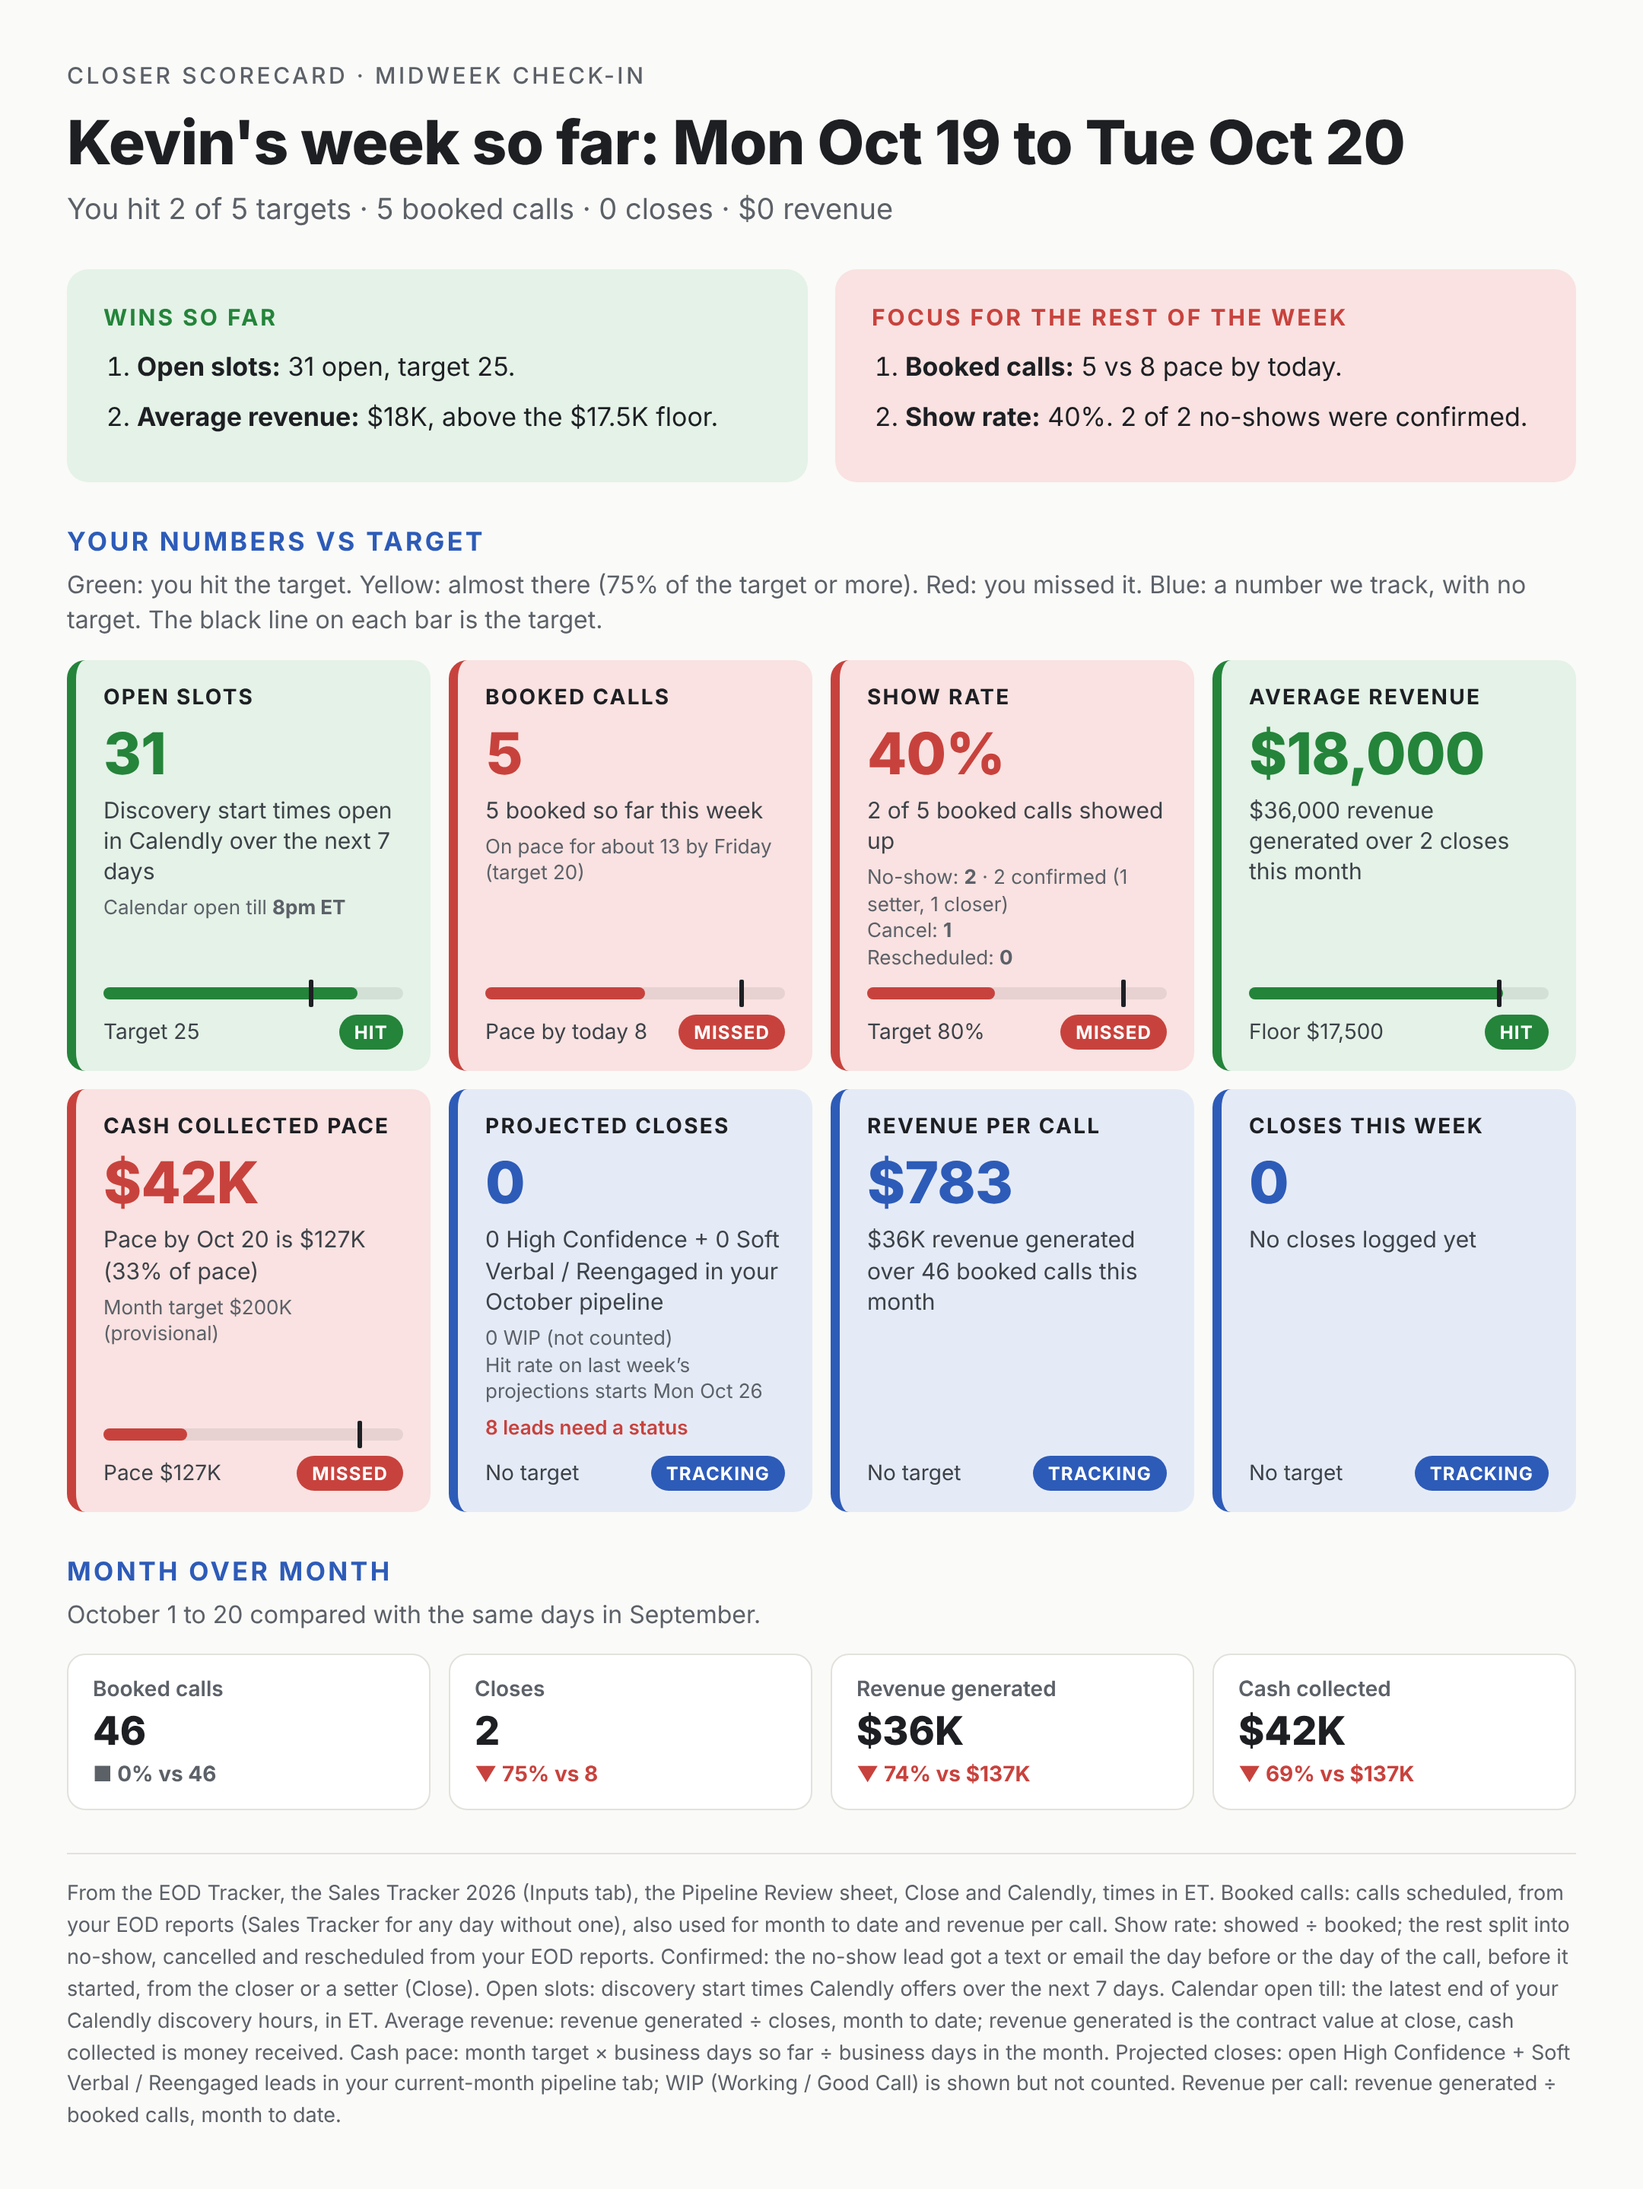
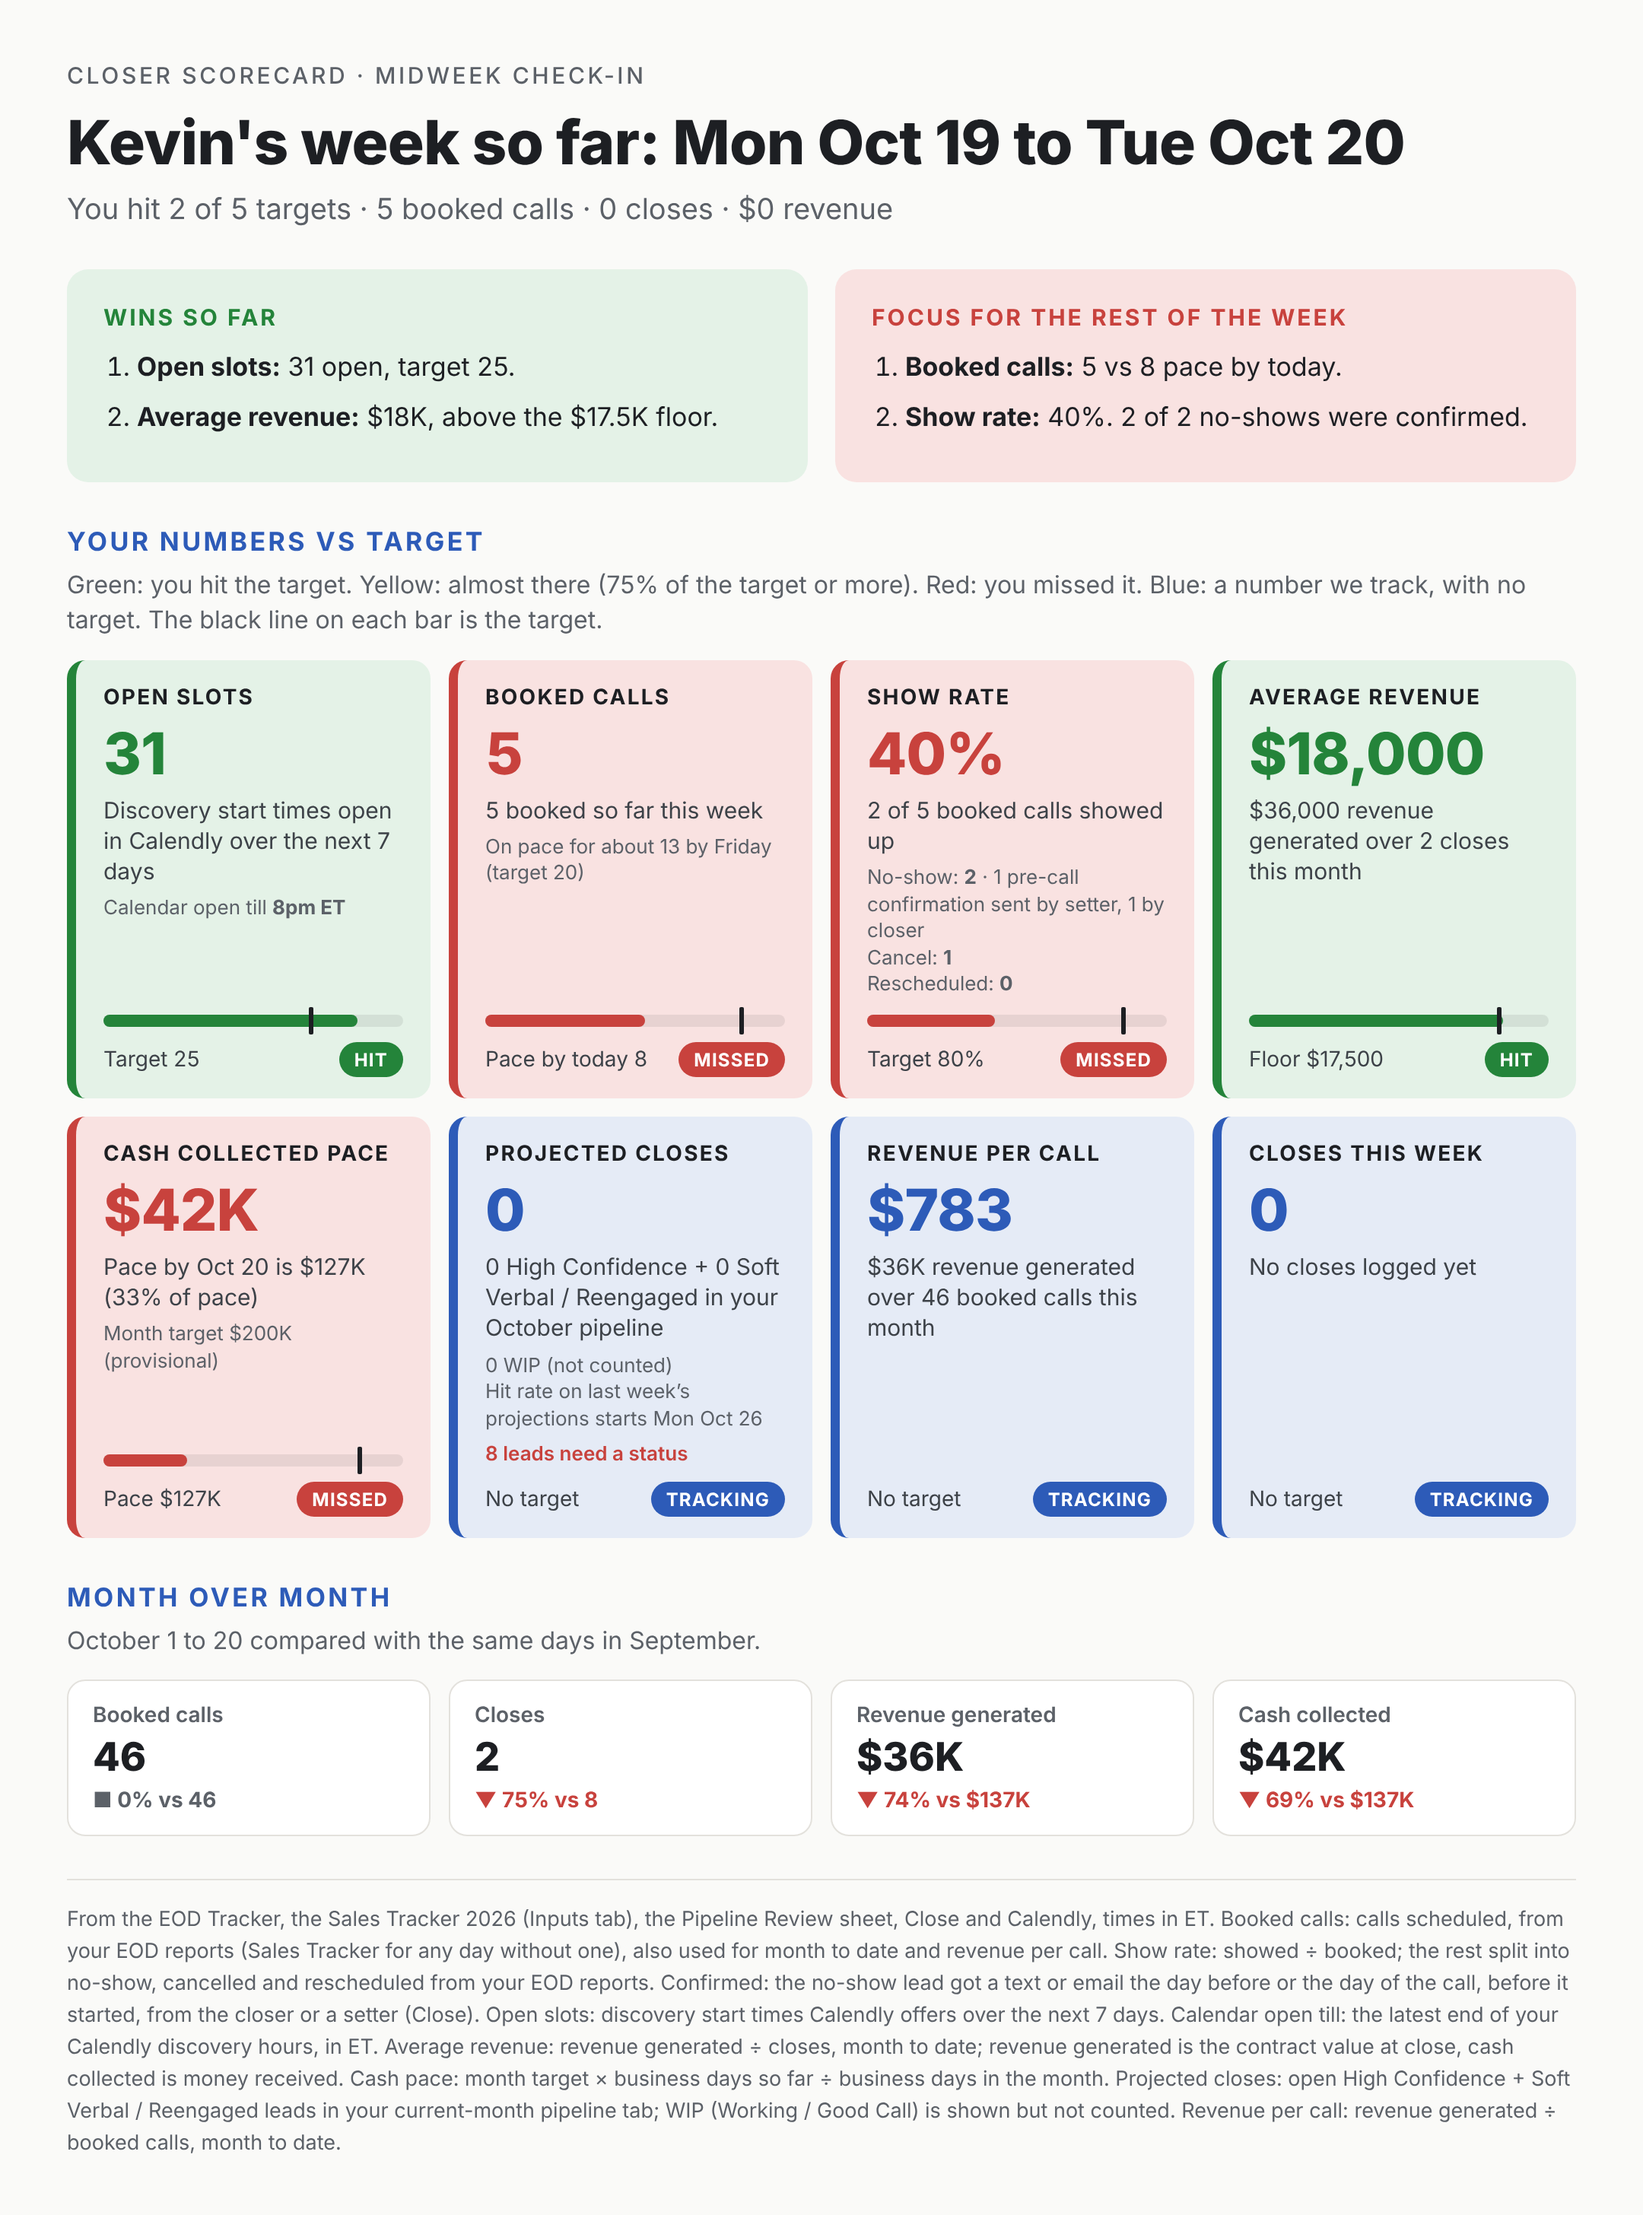
Show-rate tile: word no-show confirmations as pre-call confirmations sent by closer/setter
Claude-Session: https://claude.ai/code/session_011pbn4nCNJuuvTdiMbwfsux

diff --git a/out/monday-Kevin.html b/out/monday-Kevin.html
@@ -78,7 +78,7 @@ tr.total td{background:#f1efea;font-weight:800}
   <div class="foot"><div class="bar"><i style="width:63.74999999999999%"></i><b style="left:85%"></b></div><div class="row"><span>Target 20</span><span class="chip">ALMOST</span></div></div>
 </div><div class="tile almost">
   <div class="l">Show rate</div><div class="v">67%</div>
-  <div class="s">10 of 15 booked calls showed up</div><div class="small">No-show: <b>3</b> · 3 confirmed (2 setter, 1 closer)<br>Cancel: <b>2</b><br>Rescheduled: <b>0</b></div>
+  <div class="s">10 of 15 booked calls showed up</div><div class="small">No-show: <b>3</b> · 2 pre-call confirmation sent by setter, 1 by closer<br>Cancel: <b>2</b><br>Rescheduled: <b>0</b></div>
   <div class="foot"><div class="bar"><i style="width:70.83333333333333%"></i><b style="left:85%"></b></div><div class="row"><span>Target 80%</span><span class="chip">ALMOST</span></div></div>
 </div><div class="tile hit">
   <div class="l">Average revenue</div><div class="v">$18,000</div>

diff --git a/out/monday-Nick.html b/out/monday-Nick.html
@@ -78,7 +78,7 @@ tr.total td{background:#f1efea;font-weight:800}
   <div class="foot"><div class="bar"><i style="width:68%"></i><b style="left:85%"></b></div><div class="row"><span>Target 20</span><span class="chip">ALMOST</span></div></div>
 </div><div class="tile missed">
   <div class="l">Show rate</div><div class="v">56%</div>
-  <div class="s">9 of 16 booked calls showed up</div><div class="small">No-show: <b>7</b> · 6 confirmed (1 setter, 5 closer)<br>Cancel: <b>0</b><br>Rescheduled: <b>0</b></div>
+  <div class="s">9 of 16 booked calls showed up</div><div class="small">No-show: <b>7</b> · 1 pre-call confirmation sent by setter, 5 by closer<br>Cancel: <b>0</b><br>Rescheduled: <b>0</b></div>
   <div class="foot"><div class="bar"><i style="width:59.765624999999986%"></i><b style="left:85%"></b></div><div class="row"><span>Target 80%</span><span class="chip">MISSED</span></div></div>
 </div><div class="tile missed">
   <div class="l">Average revenue</div><div class="v">$17,250</div>

diff --git a/out/monday-Adam.html b/out/monday-Adam.html
@@ -78,7 +78,7 @@ tr.total td{background:#f1efea;font-weight:800}
   <div class="foot"><div class="bar"><i style="width:25.5%"></i><b style="left:85%"></b></div><div class="row"><span>Target 20</span><span class="chip">MISSED</span></div></div>
 </div><div class="tile almost">
   <div class="l">Show rate</div><div class="v">67%</div>
-  <div class="s">4 of 6 booked calls showed up</div><div class="small">No-show: <b>2</b> · 2 confirmed (1 setter, 1 closer)<br>Cancel: <b>0</b><br>Rescheduled: <b>0</b></div>
+  <div class="s">4 of 6 booked calls showed up</div><div class="small">No-show: <b>2</b> · 1 pre-call confirmation sent by setter, 1 by closer<br>Cancel: <b>0</b><br>Rescheduled: <b>0</b></div>
   <div class="foot"><div class="bar"><i style="width:70.83333333333333%"></i><b style="left:85%"></b></div><div class="row"><span>Target 80%</span><span class="chip">ALMOST</span></div></div>
 </div><div class="tile missed">
   <div class="l">Average revenue</div><div class="v">$17,000</div>

diff --git a/out/monday-VeJohn.html b/out/monday-VeJohn.html
@@ -78,7 +78,7 @@ tr.total td{background:#f1efea;font-weight:800}
   <div class="foot"><div class="bar"><i style="width:72.24999999999999%"></i><b style="left:85%"></b></div><div class="row"><span>Target 20</span><span class="chip">ALMOST</span></div></div>
 </div><div class="tile almost">
   <div class="l">Show rate</div><div class="v">76%</div>
-  <div class="s">13 of 17 booked calls showed up</div><div class="small">No-show: <b>2</b> · 2 confirmed (2 closer)<br>Cancel: <b>2</b><br>Rescheduled: <b>0</b></div>
+  <div class="s">13 of 17 booked calls showed up</div><div class="small">No-show: <b>2</b> · 2 pre-call confirmation sent by closer<br>Cancel: <b>2</b><br>Rescheduled: <b>0</b></div>
   <div class="foot"><div class="bar"><i style="width:81.24999999999999%"></i><b style="left:85%"></b></div><div class="row"><span>Target 80%</span><span class="chip">ALMOST</span></div></div>
 </div><div class="tile missed">
   <div class="l">Average revenue</div><div class="v">$16,200</div>

diff --git a/out/wednesday-Kevin.html b/out/wednesday-Kevin.html
@@ -78,7 +78,7 @@ tr.total td{background:#f1efea;font-weight:800}
   <div class="foot"><div class="bar"><i style="width:53.125%"></i><b style="left:85%"></b></div><div class="row"><span>Pace by today 8</span><span class="chip">MISSED</span></div></div>
 </div><div class="tile missed">
   <div class="l">Show rate</div><div class="v">40%</div>
-  <div class="s">2 of 5 booked calls showed up</div><div class="small">No-show: <b>2</b> · 2 confirmed (1 setter, 1 closer)<br>Cancel: <b>1</b><br>Rescheduled: <b>0</b></div>
+  <div class="s">2 of 5 booked calls showed up</div><div class="small">No-show: <b>2</b> · 1 pre-call confirmation sent by setter, 1 by closer<br>Cancel: <b>1</b><br>Rescheduled: <b>0</b></div>
   <div class="foot"><div class="bar"><i style="width:42.5%"></i><b style="left:85%"></b></div><div class="row"><span>Target 80%</span><span class="chip">MISSED</span></div></div>
 </div><div class="tile hit">
   <div class="l">Average revenue</div><div class="v">$18,000</div>

diff --git a/out/monday-Owen.html b/out/monday-Owen.html
@@ -78,7 +78,7 @@ tr.total td{background:#f1efea;font-weight:800}
   <div class="foot"><div class="bar"><i style="width:85%"></i><b style="left:73.91304347826086%"></b></div><div class="row"><span>Target 20</span><span class="chip">HIT</span></div></div>
 </div><div class="tile almost">
   <div class="l">Show rate</div><div class="v">78%</div>
-  <div class="s">18 of 23 booked calls showed up</div><div class="small">No-show: <b>3</b> · 1 confirmed (1 closer)<br>Cancel: <b>1</b><br>Rescheduled: <b>1</b></div>
+  <div class="s">18 of 23 booked calls showed up</div><div class="small">No-show: <b>3</b> · 1 pre-call confirmation sent by closer<br>Cancel: <b>1</b><br>Rescheduled: <b>1</b></div>
   <div class="foot"><div class="bar"><i style="width:83.15217391304347%"></i><b style="left:85%"></b></div><div class="row"><span>Target 80%</span><span class="chip">ALMOST</span></div></div>
 </div><div class="tile hit">
   <div class="l">Average revenue</div><div class="v">$19,400</div>

diff --git a/out/wednesday-Solomon.html b/out/wednesday-Solomon.html
@@ -78,7 +78,7 @@ tr.total td{background:#f1efea;font-weight:800}
   <div class="foot"><div class="bar"><i style="width:42.5%"></i><b style="left:85%"></b></div><div class="row"><span>Pace by today 8</span><span class="chip">MISSED</span></div></div>
 </div><div class="tile almost">
   <div class="l">Show rate</div><div class="v">75%</div>
-  <div class="s">3 of 4 booked calls showed up</div><div class="small">No-show: <b>1</b> · 1 confirmed (1 closer)<br>Cancel: <b>0</b><br>Rescheduled: <b>0</b></div>
+  <div class="s">3 of 4 booked calls showed up</div><div class="small">No-show: <b>1</b> · 1 pre-call confirmation sent by closer<br>Cancel: <b>0</b><br>Rescheduled: <b>0</b></div>
   <div class="foot"><div class="bar"><i style="width:79.68749999999999%"></i><b style="left:85%"></b></div><div class="row"><span>Target 80%</span><span class="chip">ALMOST</span></div></div>
 </div><div class="tile hit">
   <div class="l">Average revenue</div><div class="v">$18,667</div>

diff --git a/out/monday-Harry.html b/out/monday-Harry.html
@@ -78,7 +78,7 @@ tr.total td{background:#f1efea;font-weight:800}
   <div class="foot"><div class="bar"><i style="width:59.5%"></i><b style="left:85%"></b></div><div class="row"><span>Target 20</span><span class="chip">MISSED</span></div></div>
 </div><div class="tile almost">
   <div class="l">Show rate</div><div class="v">71%</div>
-  <div class="s">10 of 14 booked calls showed up</div><div class="small">No-show: <b>2</b> · 1 confirmed (1 closer)<br>Cancel: <b>2</b><br>Rescheduled: <b>0</b></div>
+  <div class="s">10 of 14 booked calls showed up</div><div class="small">No-show: <b>2</b> · 1 pre-call confirmation sent by closer<br>Cancel: <b>2</b><br>Rescheduled: <b>0</b></div>
   <div class="foot"><div class="bar"><i style="width:75.89285714285714%"></i><b style="left:85%"></b></div><div class="row"><span>Target 80%</span><span class="chip">ALMOST</span></div></div>
 </div><div class="tile hit">
   <div class="l">Average revenue</div><div class="v">$19,500</div>

diff --git a/out/monday-Solomon.html b/out/monday-Solomon.html
@@ -78,7 +78,7 @@ tr.total td{background:#f1efea;font-weight:800}
   <div class="foot"><div class="bar"><i style="width:51%"></i><b style="left:85%"></b></div><div class="row"><span>Target 20</span><span class="chip">MISSED</span></div></div>
 </div><div class="tile almost">
   <div class="l">Show rate</div><div class="v">67%</div>
-  <div class="s">8 of 12 booked calls showed up</div><div class="small">No-show: <b>4</b> · 3 confirmed (3 closer)<br>Cancel: <b>0</b><br>Rescheduled: <b>0</b></div>
+  <div class="s">8 of 12 booked calls showed up</div><div class="small">No-show: <b>4</b> · 3 pre-call confirmation sent by closer<br>Cancel: <b>0</b><br>Rescheduled: <b>0</b></div>
   <div class="foot"><div class="bar"><i style="width:70.83333333333333%"></i><b style="left:85%"></b></div><div class="row"><span>Target 80%</span><span class="chip">ALMOST</span></div></div>
 </div><div class="tile hit">
   <div class="l">Average revenue</div><div class="v">$18,667</div>

diff --git a/out/monday-JZ.html b/out/monday-JZ.html
@@ -78,7 +78,7 @@ tr.total td{background:#f1efea;font-weight:800}
   <div class="foot"><div class="bar"><i style="width:34%"></i><b style="left:85%"></b></div><div class="row"><span>Target 20</span><span class="chip">MISSED</span></div></div>
 </div><div class="tile almost">
   <div class="l">Show rate</div><div class="v">75%</div>
-  <div class="s">6 of 8 booked calls showed up</div><div class="small">No-show: <b>1</b> · 1 confirmed (1 closer)<br>Cancel: <b>1</b><br>Rescheduled: <b>0</b></div>
+  <div class="s">6 of 8 booked calls showed up</div><div class="small">No-show: <b>1</b> · 1 pre-call confirmation sent by closer<br>Cancel: <b>1</b><br>Rescheduled: <b>0</b></div>
   <div class="foot"><div class="bar"><i style="width:79.68749999999999%"></i><b style="left:85%"></b></div><div class="row"><span>Target 80%</span><span class="chip">ALMOST</span></div></div>
 </div><div class="tile hit">
   <div class="l">Average revenue</div><div class="v">$18,750</div>

diff --git a/out/wednesday-Nick.html b/out/wednesday-Nick.html
@@ -78,7 +78,7 @@ tr.total td{background:#f1efea;font-weight:800}
   <div class="foot"><div class="bar"><i style="width:42.5%"></i><b style="left:85%"></b></div><div class="row"><span>Pace by today 8</span><span class="chip">MISSED</span></div></div>
 </div><div class="tile missed">
   <div class="l">Show rate</div><div class="v">50%</div>
-  <div class="s">2 of 4 booked calls showed up</div><div class="small">No-show: <b>1</b> · 1 confirmed (1 closer)<br>Cancel: <b>1</b><br>Rescheduled: <b>0</b></div>
+  <div class="s">2 of 4 booked calls showed up</div><div class="small">No-show: <b>1</b> · 1 pre-call confirmation sent by closer<br>Cancel: <b>1</b><br>Rescheduled: <b>0</b></div>
   <div class="foot"><div class="bar"><i style="width:53.125%"></i><b style="left:85%"></b></div><div class="row"><span>Target 80%</span><span class="chip">MISSED</span></div></div>
 </div><div class="tile missed">
   <div class="l">Average revenue</div><div class="v">$17,250</div>

diff --git a/out/monday-Daniel.html b/out/monday-Daniel.html
@@ -78,7 +78,7 @@ tr.total td{background:#f1efea;font-weight:800}
   <div class="foot"><div class="bar"><i style="width:34%"></i><b style="left:85%"></b></div><div class="row"><span>Target 20</span><span class="chip">MISSED</span></div></div>
 </div><div class="tile almost">
   <div class="l">Show rate</div><div class="v">63%</div>
-  <div class="s">5 of 8 booked calls showed up</div><div class="small">No-show: <b>2</b> · 1 confirmed (1 closer)<br>Cancel: <b>0</b><br>Rescheduled: <b>1</b></div>
+  <div class="s">5 of 8 booked calls showed up</div><div class="small">No-show: <b>2</b> · 1 pre-call confirmation sent by closer<br>Cancel: <b>0</b><br>Rescheduled: <b>1</b></div>
   <div class="foot"><div class="bar"><i style="width:66.40624999999999%"></i><b style="left:85%"></b></div><div class="row"><span>Target 80%</span><span class="chip">ALMOST</span></div></div>
 </div><div class="tile track">
   <div class="l">Average revenue</div><div class="v">–</div>
